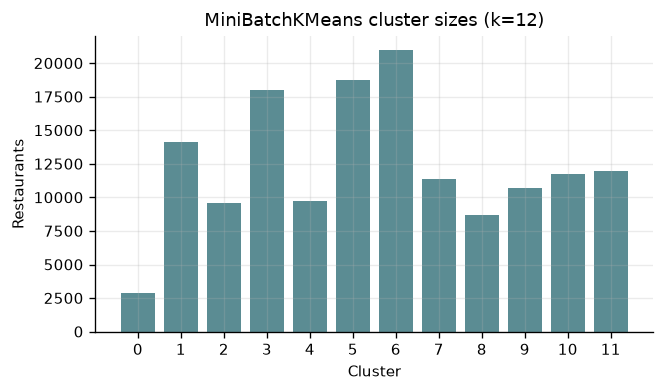
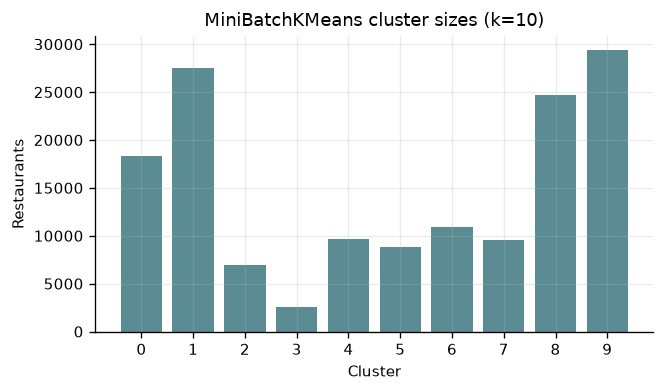
feat: select k by the elbow method (k=12 -> 10)
N_CLUSTERS = 12 had been hardcoded since the initial commit with no selection
experiment anywhere in the repo; the README reported silhouette 0.079 at k=12
as a result, not as a justification.

select_k.py sweeps k = 2..32. Each k is fitted three times (seeds 42/43/44)
and the inertias averaged, because a single MiniBatchKMeans run is stochastic
enough that inertia can rise with k and make the knee unreadable. The elbow is
located with the Kneedle criterion: normalise the curve to the unit square,
take the chord from the first point to the last, and pick the k lying furthest
below it. The knee is k=10.

Silhouette cannot make this call: it moves between 0.046 and 0.086 across the
usable range, and its nominal peak is k=2 at 0.177, a degenerate split whose
larger cluster holds 118,616 of 148,429 restaurants. The script reports the
peak over k>=4 only and flags the degenerate values explicitly.

Also in this commit:

* config.N_CLUSTERS = 10, with a comment pointing at the sweep and its JSON,
  so the number is traceable rather than magic.
* make_figures.py took its cluster-count from a hardcoded "(k=12)" string; it
  now reads config.N_CLUSTERS, so the figure cannot disagree with the config.
* reports/k_selection.json and reports/figures/07_elbow.png added;
  06_cluster_sizes.png regenerated at k=10.
* README: k references updated, silhouette 0.079 -> 0.085, a new section
  documenting the sweep and the degenerate-k reasoning, and select_k.py added
[…]

diff --git a/select_k.py b/select_k.py
@@ -1,0 +1,152 @@
+"""Choose the number of KMeans clusters with the elbow method.
+
+Sweeps ``k`` over ``K_RANGE``, fits MiniBatchKMeans on the full encoded matrix
+once per seed, and averages the inertia across seeds so the curve is smooth
+enough for an elbow to be meaningful - a single MiniBatch run is stochastic
+enough that inertia can rise with k, which makes the elbow unreadable.
+
+The elbow is located with the Kneedle criterion: normalise the curve to the
+unit square, draw the chord from the first point to the last, and take the k
+whose vertical distance below that chord is greatest.
+
+Run::
+
+    python select_k.py
+
+Writes ``reports/k_selection.json`` and ``reports/figures/07_elbow.png`` and
+prints the k to put in ``config.N_CLUSTERS``.
+"""
+
+from __future__ import annotations
+
+import json
+
+import matplotlib
+matplotlib.use("Agg")
+import matplotlib.pyplot as plt
+import numpy as np
+from sklearn.cluster import MiniBatchKMeans
+from sklearn.metrics import silhouette_score
+
+import config
+from data_pipeline import load_datasets
+
+K_RANGE = (2, 4, 6, 8, 10, 12, 14, 16, 18, 20, 24, 28, 32)
+SEEDS = (42, 43, 44)
+SILHOUETTE_SAMPLE = 5000
+REPORT_DIR = config.BASE_DIR / "reports"
+FIG_DIR = REPORT_DIR / "figures"
+
+
+def _fit(encoded, k: int, seed: int) -> MiniBatchKMeans:
+    return MiniBatchKMeans(
+        n_clusters=k, random_state=seed, n_init=10,
+        batch_size=4096, max_iter=500,
+    ).fit(encoded)
+
+
+def _elbow(ks: list[int], inertia: list[float]) -> int:
+    """Kneedle: k of maximum vertical drop below the first-to-last chord."""
+    x = np.asarray(ks, dtype=float)
+    y = np.asarray(inertia, dtype=float)
+    x_n = (x - x.min()) / (x.max() - x.min())
+    y_n = (y - y.min()) / (y.max() - y.min())
+    # Chord from (0, 1) to (1, 0) for a decreasing curve; the elbow is the
+    # point furthest BELOW it.
+    chord = 1.0 - x_n
+    return int(x[np.argmax(chord - y_n)])
+
+
+def main() -> int:
+    cleaned, encoded, columns = load_datasets()
+    print(f"[data] encoded={encoded.shape}  nnz={encoded.nnz:,}  "
+          f"density={encoded.nnz / (encoded.shape[0] * encoded.shape[1]):.4%}")
+
+    rng = np.random.default_rng(config.RANDOM_SEED)
+    sample = rng.choice(encoded.shape[0], SILHOUETTE_SAMPLE, replace=False)
+    sampled = encoded[sample]
+
+    rows = []
+    print(f"\n{'k':>4} {'inertia (mean)':>16} {'spread':>9} "
+          f"{'silhouette':>11} {'smallest':>9} {'largest':>9}")
+    for k in K_RANGE:
+        inertias, sils, smallest, largest = [], [], [], []
+        for seed in SEEDS:
+            model = _fit(encoded, k, seed)
+            counts = np.bincount(model.labels_, minlength=k)
+            inertias.append(float(model.inertia_))
+            sils.append(float(silhouette_score(sampled, model.predict(sampled))))
+            smallest.append(int(counts.min()))
+            largest.append(int(counts.max()))
+        row = {
+            "k": k,
+            "inertia": float(np.mean(inertias)),
+            "inertia_spread": float(np.ptp(inertias)),
+            "silhouette": float(np.mean(sils)),
+            "smallest_cluster": int(np.mean(smallest)),
+            "largest_cluster": int(np.mean(largest)),
+        }
+        rows.append(row)
+        print(f"{k:>4} {row['inertia']:>16,.0f} {row['inertia_spread']:>9,.0f} "
+              f"{row['silhouette']:>11.4f} {row['smallest_cluster']:>9,} "
+              f"{row['largest_cluster']:>9,}")
+
+    ks = [r["k"] for r in rows]
+    inertia = [r["inertia"] for r in rows]
+    elbow = _elbow(ks, inertia)
+
+    # k=2 or 3 wins silhouette by splitting the catalogue into two enormous
+    # blobs, which is useless as a browsing segmentation - so the reported
+    # silhouette peak is taken over the usable range only.
+    usable = [r for r in rows if r["k"] >= 4]
+    best_sil = max(usable, key=lambda r: r["silhouette"])
+    degenerate = [r for r in rows if r["k"] < 4]
+
+    print(f"\n[elbow]      k = {elbow}  (Kneedle on mean inertia)")
+    print(f"[silhouette] k = {best_sil['k']} at {best_sil['silhouette']:.4f} "
+          f"over k>=4, where the whole range is "
+          f"{min(r['silhouette'] for r in usable):.4f}-"
+          f"{max(r['silhouette'] for r in usable):.4f} - too flat to choose on")
+    for r in degenerate:
+        print(f"[degenerate] k={r['k']} scores {r['silhouette']:.4f} but its "
+              f"largest cluster holds {r['largest_cluster']:,} restaurants")
+    print(f"[config]     set N_CLUSTERS = {elbow}")
+
+    REPORT_DIR.mkdir(parents=True, exist_ok=True)
+    FIG_DIR.mkdir(parents=True, exist_ok=True)
+    (REPORT_DIR / "k_selection.json").write_text(
+        json.dumps({"rows": rows, "elbow_k": elbow,
+                    "best_silhouette_k_usable": best_sil["k"],
+                    "seeds": list(SEEDS),
+                    "silhouette_sample": SILHOUETTE_SAMPLE}, indent=2),
+        encoding="utf-8",
+    )
+
+    fig, (ax_left, ax_right) = plt.subplots(1, 2, figsize=(11, 4))
+    ax_left.plot(ks, inertia, marker="o", color="#2b6cb0")
+    ax_left.plot([ks[0], ks[-1]], [inertia[0], inertia[-1]],
+                 linestyle="--", color="#a0aec0", label="chord")
+    ax_left.axvline(elbow, color="#e53e3e", linestyle=":",
+                    label=f"elbow k={elbow}")
+    ax_left.set_title("Elbow — inertia vs k (mean of 3 seeds)")
+    ax_left.set_xlabel("k")
+    ax_left.set_ylabel("Inertia")
+    ax_left.legend()
+
+    ax_right.plot(ks, [r["silhouette"] for r in rows], marker="o",
+                  color="#38a169")
+    ax_right.axvline(elbow, color="#e53e3e", linestyle=":")
+    ax_right.set_title("Silhouette vs k (5,000-row sample)")
+    ax_right.set_xlabel("k")
+    ax_right.set_ylabel("Silhouette")
+    ax_right.set_ylim(0, max(0.12, max(r["silhouette"] for r in rows) * 1.3))
+
+    fig.tight_layout()
+    fig.savefig(FIG_DIR / "07_elbow.png", dpi=150)
+    plt.close(fig)
+    print(f"[fig] {FIG_DIR / '07_elbow.png'}")
+    return 0
+
+
+if __name__ == "__main__":
+    raise SystemExit(main())

diff --git a/config.py b/config.py
@@ -32,7 +32,12 @@ DB_BACKEND = os.getenv("SWIGGY_DB_BACKEND", "auto").lower()
 RANDOM_SEED = 42
 N_SYNTHETIC_ROWS = 4000
 TOP_K = 10
-N_CLUSTERS = 12
+# Elbow-selected, not guessed: `python select_k.py` sweeps k=2..32 with three
+# seeds per k and locates the knee of the inertia curve (Kneedle). k=10 is the
+# knee; reports/k_selection.json holds the full sweep. Silhouette is ~0.08 at
+# every k>=4 because the feature space is 99.2% sparse one-hot, so it cannot
+# pick k on its own - the inertia knee is what decides.
+N_CLUSTERS = 10
 
 # The encoded matrix is ~148k x ~680 and is held in memory as a scipy sparse
 # matrix (encoded_data.npz). The dense CSV deliverable is ~200 MB, so writing it

diff --git a/make_figures.py b/make_figures.py
@@ -118,7 +118,8 @@ def main() -> None:
         sizes = labels.value_counts().sort_index()
         fig, ax = plt.subplots(figsize=(6, 3.2))
         ax.bar(sizes.index.astype(str), sizes.values, color=PALETTE[5])
-        ax.set_title("MiniBatchKMeans cluster sizes (k=12)")
+        ax.set_title("MiniBatchKMeans cluster sizes "
+                     f"(k={config.N_CLUSTERS})")
         ax.set_xlabel("Cluster")
         ax.set_ylabel("Restaurants")
         save(fig, "06_cluster_sizes.png")

diff --git a/README.md b/README.md
@@ -27,7 +27,7 @@ encoded numeric matrix, then mapped back to the human-readable catalogue.
 | All features numerical | `StandardScaler` on `rating`, `rating_count`, `cost`, saved as `artifacts/scaler.pkl` |
 | Preprocessed dataset | `data/encoded_data.csv` |
 | **Indices must match** | Asserted at runtime: row-count equality **and** a contiguous `0..n-1` index on `cleaned_data.csv`, so encoded row *i* is cleaned row *i* |
-| Clustering / similarity | `MiniBatchKMeans` (k=12) **and** `cosine_similarity`, user-selectable in the UI |
+| Clustering / similarity | `MiniBatchKMeans` (k=10, chosen by the elbow method in `select_k.py`) **and** `cosine_similarity`, user-selectable in the UI |
 | Result mapping | Recommendation indices are resolved with `cleaned.iloc[chosen]` |
 
 ### Dataset
@@ -125,7 +125,7 @@ data/swiggy.csv                              148,541 rows / 45 MB
                     │
         ┌───────────┴────────────┐
         ▼                        ▼
- cosine_similarity      MiniBatchKMeans (k=12)
+ cosine_similarity      MiniBatchKMeans (k=10)
         │                        │  artifacts/kmeans.pkl
         └───────────┬────────────┘
                     ▼
@@ -167,7 +167,7 @@ restaurants (
 | Field | Detail |
 |---|---|
 | **Domain** | Food Delivery / Recommender Systems |
-| **Skills demonstrated** | Python · Pandas · NumPy · large-scale data cleaning · one-hot and multi-hot encoding · MiniBatchKMeans clustering · cosine similarity ranking · index-alignment validation · SQL · Streamlit · Plotly |
+| **Skills demonstrated** | Python · Pandas · NumPy · large-scale data cleaning · one-hot and multi-hot encoding · MiniBatchKMeans clustering · elbow-method model selection · cosine similarity ranking · index-alignment validation · SQL · Streamlit · Plotly |
 | **Technical tags** | `python` `streamlit` `recommender-system` `kmeans` `clustering` `pandas` `mysql` `plotly` `data-science` |
 | **Dataset** | `data/swiggy.csv` — 148,429 restaurants after cleaning, spanning 552 normalised cities and 126 cuisine tags, supplied with the project brief. |
 
@@ -184,12 +184,13 @@ restaurants (
 |---|---|---|
 | Data quality | Restaurants retained / duplicates removed | 148,429 / 38 |
 | Encoding | Encoded matrix shape / density | 148,429 × 681 / 0.84% |
-| Segmentation (MiniBatchKMeans) | Silhouette score | 0.079 at k=12 |
+| Segmentation (MiniBatchKMeans) | Elbow-selected k / silhouette | k=10 (inertia knee) / 0.085 |
 | Recommendation | Cosine similarity on matched results | 0.99+ on top-ranked matches |
 
 ### Project Deliverables
 
 * `data_pipeline.py` — cleaning, city and cuisine normalisation, SQL load
+* `select_k.py` — elbow-method sweep that selects `N_CLUSTERS`, writes `reports/k_selection.json` and the elbow figure
 * `models.py` — encoders, MiniBatchKMeans segmentation and similarity ranking
 * `app.py` — Streamlit recommender with filter-driven search
 * `artifacts/*.pkl` — one-hot encoder, multi-label binariser, scaler and cluster model
@@ -223,10 +224,13 @@ pip install -r requirements.txt
 # 4. Clean → encode → save encoder.pkl → load to SQL
 python data_pipeline.py
 
-# 5. Fit KMeans and run the recommendation smoke test
+# 5. Choose k by the elbow method (writes reports/k_selection.json + figure)
+python select_k.py
+
+# 6. Fit KMeans at config.N_CLUSTERS and run the recommendation smoke test
 python models.py
 
-# 6. Launch the application
+# 7. Launch the application
 streamlit run app.py
 ```
 
@@ -289,7 +293,7 @@ python data_pipeline.py
 | Streamlit URL | `http://localhost:8501` | — |
 | Dataset | `data/swiggy.csv` (148,541 rows) | `RAW_CSV` |
 | Recommendations returned | `10` | `TOP_K` |
-| KMeans clusters | `12` | `N_CLUSTERS` |
+| KMeans clusters | `10` (elbow-selected) | `N_CLUSTERS` |
 | Write dense encoded CSV | on | `SWIGGY_WRITE_ENCODED_CSV` |
 | Random seed | `42` | `RANDOM_SEED` |
 
@@ -317,7 +321,7 @@ On the **Find Restaurants** page:
 | Cuisine tags | 126 |
 | Encoded matrix | 148,429 × 681, 0.84% dense |
 | Index alignment | verified row-for-row |
-| MiniBatchKMeans | k=12, silhouette **0.079** (5,000-row sample) |
+| MiniBatchKMeans | k=10 by elbow, silhouette **0.085** (5,000-row sample) |
 
 Sample output for **Bangalore / Biryani + North Indian / ₹400 / rating ≥ 4.2**:
 
@@ -329,16 +333,50 @@ Sample output for **Bangalore / Biryani + North Indian / ₹400 / rating ≥ 4.2
 | BOX8 – Desi Meals | CV Raman Nagar, Bangalore | North Indian, Biryani | 4.2 | ₹250 | 0.995 |
 | Calcutta Biryani Club | Marathahalli, Bangalore | Biryani, North Indian | 4.2 | ₹300 | 0.991 |
 
+### Choosing k — the elbow method
+
+`select_k.py` sweeps k = 2, 4, 6 … 32. Each k is fitted three times (seeds 42,
+43, 44) and the inertias are averaged, because a single `MiniBatchKMeans` run
+is stochastic enough that inertia can *rise* with k and make the knee
+unreadable. The elbow is located with the Kneedle criterion: normalise the
+curve to the unit square, take the chord from the first point to the last, and
+pick the k lying furthest below it.
+
+| k | inertia (mean of 3 seeds) | silhouette | smallest cluster | largest cluster |
+|---|---|---|---|---|
+| 2 | 733,545 | 0.1769 | 29,812 | 118,616 |
+| 4 | 681,254 | 0.0461 | 9,849 | 80,573 |
+| 6 | 609,974 | 0.0649 | 4,269 | 63,005 |
+| 8 | 588,049 | 0.0703 | 4,075 | 49,176 |
+| **10** | **566,161** | **0.0846** | **3,245** | **30,726** |
+| 12 | 554,370 | 0.0761 | 2,692 | 23,149 |
+| 14 | 535,594 | 0.0856 | 1,886 | 21,951 |
+| 16 | 525,764 | 0.0787 | 2,353 | 17,747 |
+| 18 | 521,052 | 0.0818 | 1,109 | 16,857 |
+| 20 | 501,067 | 0.0839 | 959 | 16,906 |
+| 24 | 503,213 | 0.0767 | 1,311 | 12,099 |
+| 28 | 490,753 | 0.0814 | 679 | 11,555 |
+| 32 | 456,513 | 0.0768 | 242 | 10,141 |
+
+**k = 10** is the knee, and it is what `config.N_CLUSTERS` is set to.
+
+Silhouette cannot make this decision. Across the usable range it moves between
+0.046 and 0.086 — flat noise, not a signal. Its nominal peak is k=2 at 0.177,
+which is a degenerate split: one cluster holds 118,616 of the 148,429
+restaurants, which is worthless as a browsing segmentation. Above k≈20 the
+smallest clusters fall below a thousand restaurants, which starves the KMeans
+candidate pool and pushes `recommend()` onto its relaxed filter tiers.
+
 ### A note on the clustering score
 
-Silhouette **0.079** is low. That is expected: the feature space is 99.2%
-zeros (a restaurant occupies 1 of 552 city dimensions and 1–3 of 126 cuisine
-dimensions), and one-hot geometry does not produce well-separated Euclidean
-blobs. The clusters are useful as browsing segments, and the **recommendation
-quality comes from cosine similarity**, which scores 0.99+ on genuinely
-matching restaurants. The KMeans mode is offered as a faster alternative that
-restricts the candidate pool before ranking — on the sample above, both
-methods return the same top three.
+Silhouette **0.085** is low whatever k is chosen. That is expected: the feature
+space is 99.2% zeros (a restaurant occupies 1 of 552 city dimensions and 1–3 of
+126 cuisine dimensions), and one-hot geometry does not produce well-separated
+Euclidean blobs — every point sits on a corner of a hypercube. The clusters are
+useful as browsing segments, and the **recommendation quality comes from cosine
+similarity**, which scores 0.99+ on genuinely matching restaurants. The KMeans
+mode is offered as a faster alternative that restricts the candidate pool
+before ranking — on the sample above, both methods return the same top three.
 
 ## 5. Tech Stack
 
@@ -397,7 +435,15 @@ Average rating vs average cost for the largest cities.
 
 ![Cluster sizes](reports/figures/06_cluster_sizes.png)
 
-MiniBatchKMeans cluster sizes at k=12.
+MiniBatchKMeans cluster sizes at k=10.
+
+### Choosing k — elbow and silhouette
+
+![Elbow method](reports/figures/07_elbow.png)
+
+Inertia versus k with the Kneedle chord (left) and silhouette versus k (right),
+from `select_k.py`. The knee sits at k=10; the silhouette curve is flat across
+the usable range and cannot select k on its own.
 
 <!-- FIGURES:END -->
 
